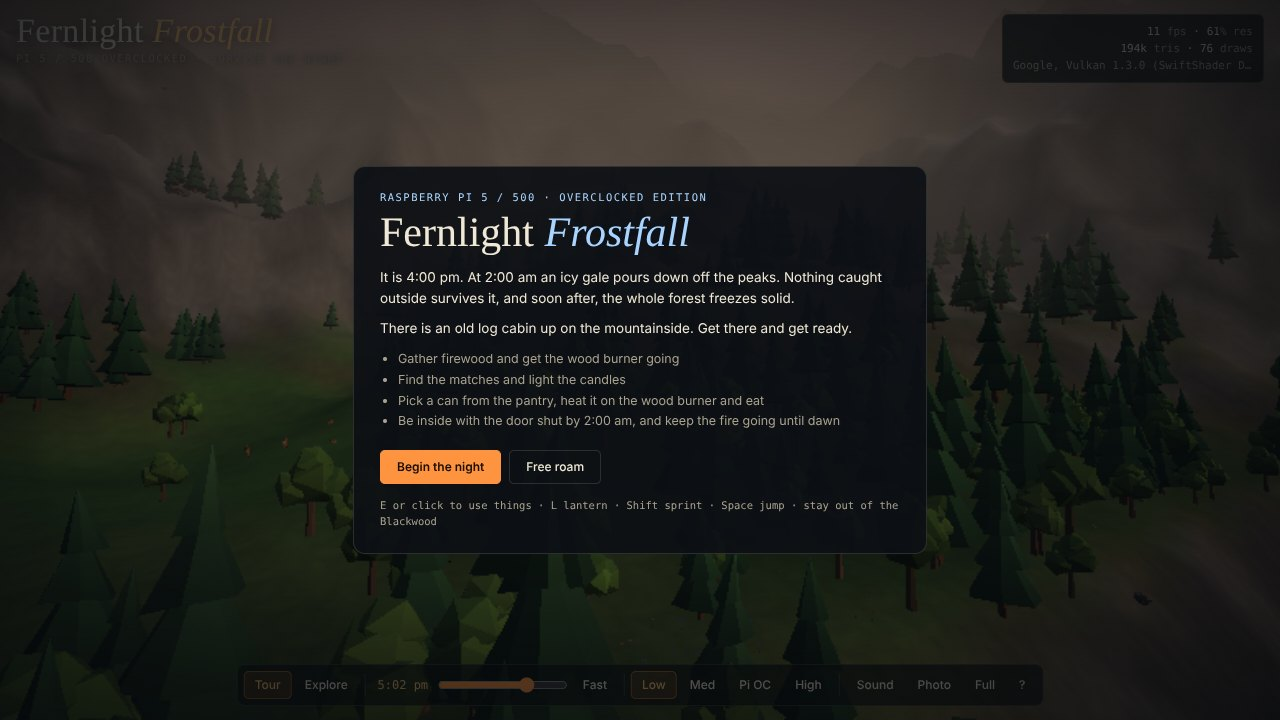
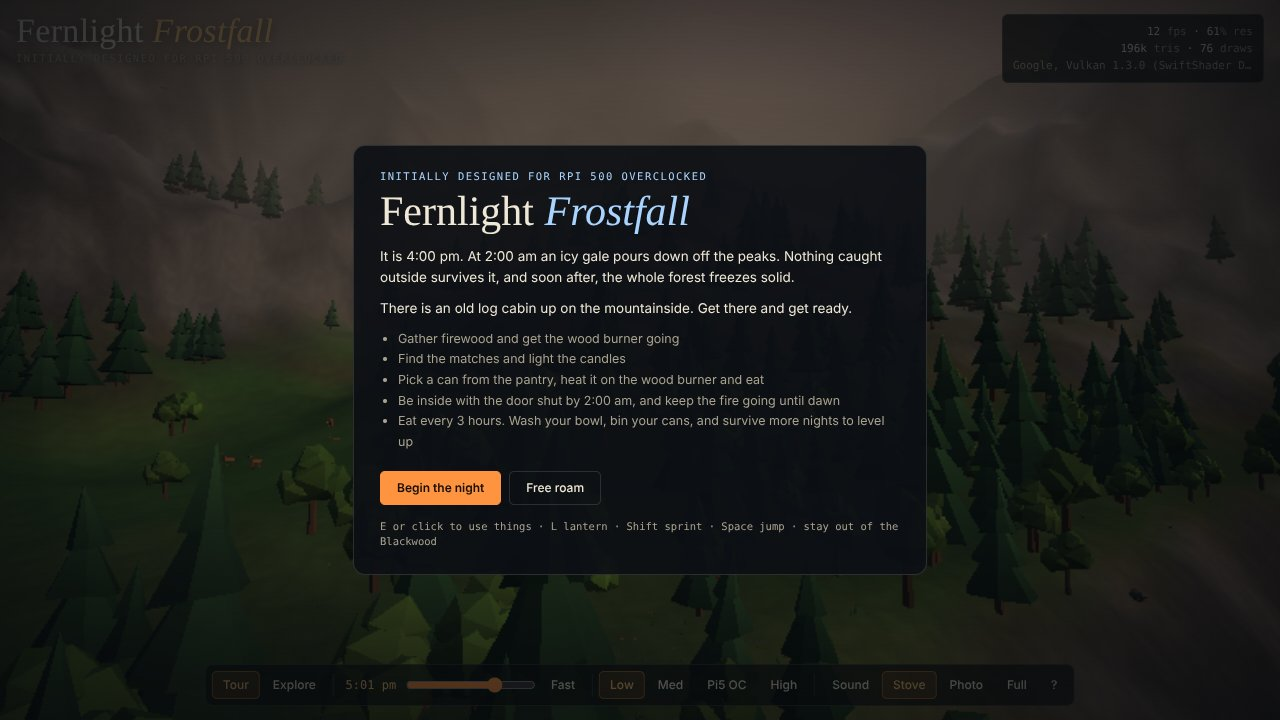
README: initially designed for an overclocked RPi 500
Claude-Session: https://claude.ai/code/session_012VsoLbmKo5D68egAErpDvd

diff --git a/README.md b/README.md
@@ -1,6 +1,6 @@
 # Fernlight Frostfall
 
-A survival version of [Fernlight Hollow](https://github.com/hardwaremack-prog/fernlight-hollow), built for an **overclocked Raspberry Pi 5 / 500**. It's one HTML file that runs offline in Chromium with no install.
+A survival version of [Fernlight Hollow](https://github.com/hardwaremack-prog/fernlight-hollow), initially designed for an **overclocked Raspberry Pi 500**. It's one HTML file that runs offline in Chromium with no install.
 
 ![Title screen](screenshots/intro.jpg)
 
@@ -173,7 +173,7 @@ The Rootwalker still lives in the Blackwood, so keep away.
 
 **Free roam** on the title screen gives you the original flying explorer with no storm.
 
-## Tuned for an overclocked Pi 5 / 500
+## Initially designed for an overclocked RPi 500
 
 - When it detects the Pi's VideoCore GPU, it picks the **Pi5 OC** preset. That means more trees, grass, flowers and snow than Medium.
 - Render resolution still adapts on its own to hold a smooth frame rate.
